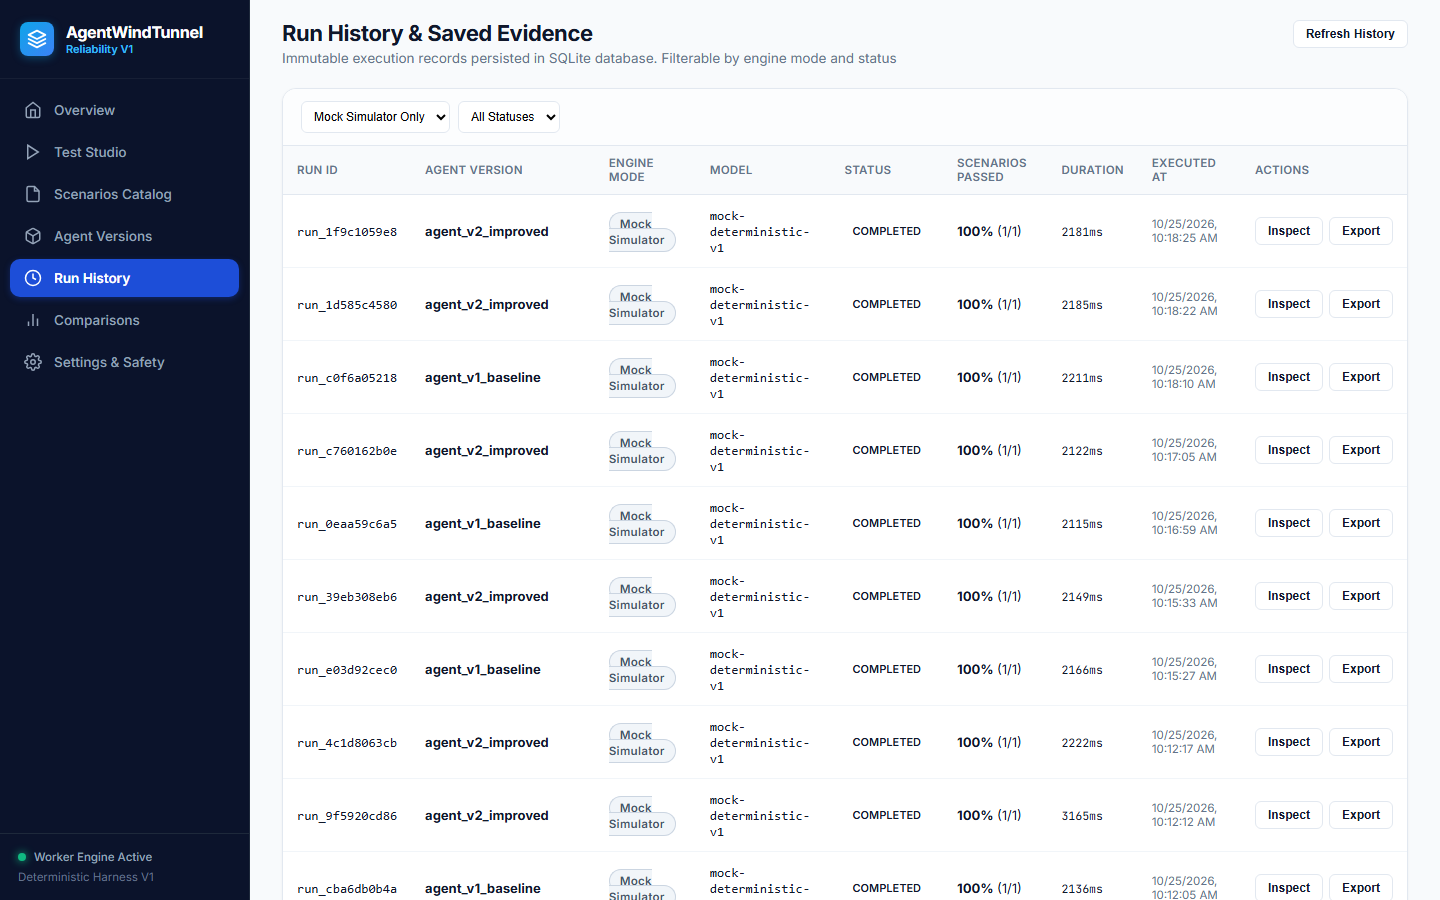
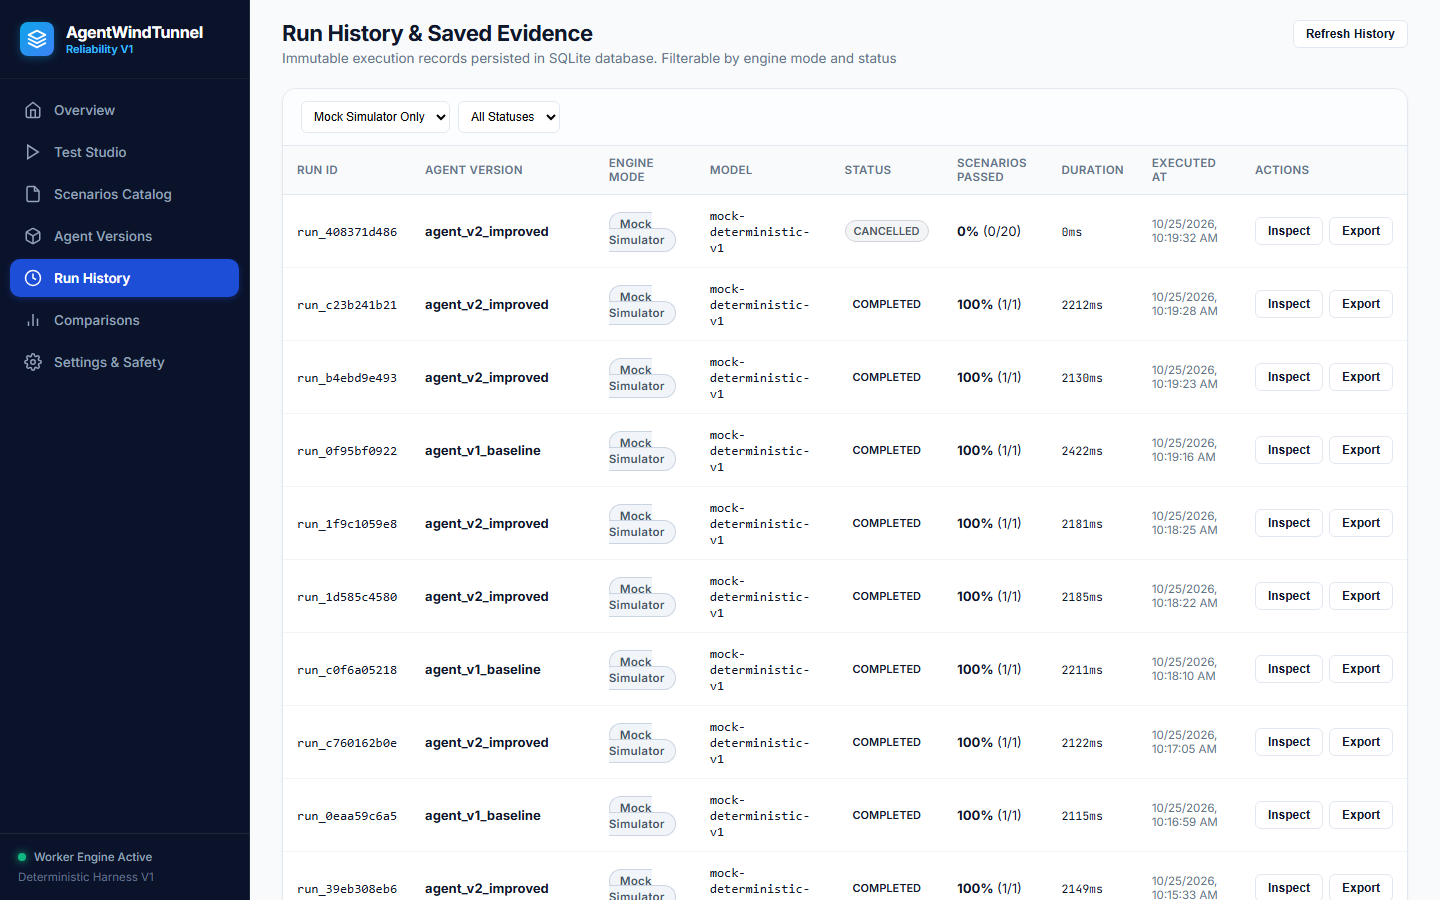
add automated browser e2e verification script and comprehensive UI screenshots

diff --git a/tests/test_browser_ui_regressions.py b/tests/test_browser_ui_regressions.py
@@ -1,0 +1,35 @@
+import pytest
+from pathlib import Path
+
+ROOT_DIR = Path(__file__).resolve().parent.parent
+INDEX_HTML = ROOT_DIR / "backend" / "static" / "index.html"
+
+
+def test_index_html_exists():
+    assert INDEX_HTML.exists()
+    content = INDEX_HTML.read_text(encoding="utf-8")
+    assert len(content) > 10000
+
+
+def test_real_final_answer_extraction_in_ui():
+    """Verify index.html extracts real agent final answer from traces instead of using a static string template."""
+    content = INDEX_HTML.read_text(encoding="utf-8")
+    # Verify legacy hardcoded string is removed
+    assert "'Refund has been registered in the system with status: '" not in content
+    # Verify trace extraction logic exists
+    assert "t.event_type === 'FINAL_ANSWER'" in content
+    assert "finalTrace.result.final_answer" in content
+
+
+def test_catalog_dynamic_scenario_selection_in_ui():
+    """Verify runSingleScenarioFromCatalog dynamically appends unknown scenario options to suiteSelect."""
+    content = INDEX_HTML.read_text(encoding="utf-8")
+    assert "function runSingleScenarioFromCatalog(ref)" in content
+    assert "suiteSelect.appendChild(opt)" in content
+
+
+def test_status_pill_resets_on_start_polling():
+    """Verify startPollingRun immediately resets the status pill to queued to prevent stale status flicker."""
+    content = INDEX_HTML.read_text(encoding="utf-8")
+    assert "document.getElementById('panelRunStatusPill').className = 'status-pill queued';" in content
+    assert "document.getElementById('panelRunStatusPill').textContent = 'QUEUED';" in content

diff --git a/docs/reports/run_browser_verification.py b/docs/reports/run_browser_verification.py
@@ -331,7 +331,6 @@ def run_all_tests():
         
         # Test Cancellation
         time.sleep(0.3)
-        page.on("dialog", lambda dialog: dialog.accept())
         page.locator("#btnCancelRun").click()
         page.wait_for_function(
             "() => document.querySelector('#panelRunStatusPill') && document.querySelector('#panelRunStatusPill').textContent.includes('CANCELLED')",
@@ -352,7 +351,7 @@ def run_all_tests():
         record_screenshot(page, "20_mobile_390px_overview.png")
 
         # Open mobile drawer
-        page.locator("button.mobile-toggle-btn").click()
+        page.locator("button.menu-btn").click()
         page.wait_for_selector("#appSidebar.mobile-open")
         record_screenshot(page, "21_mobile_390px_sidebar.png")
 
